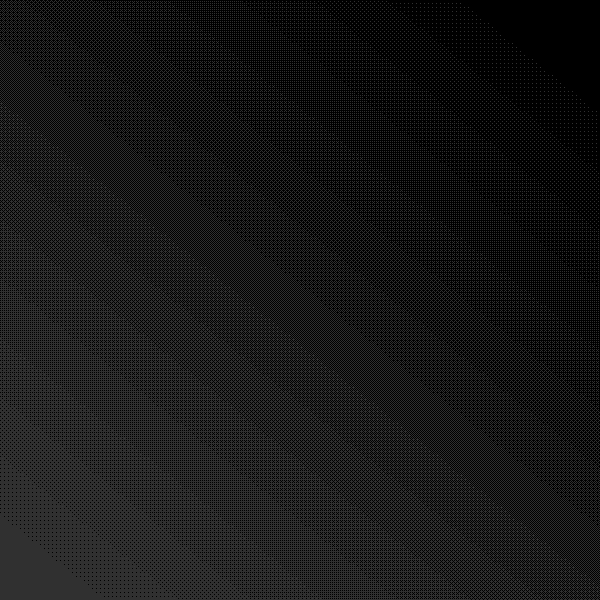
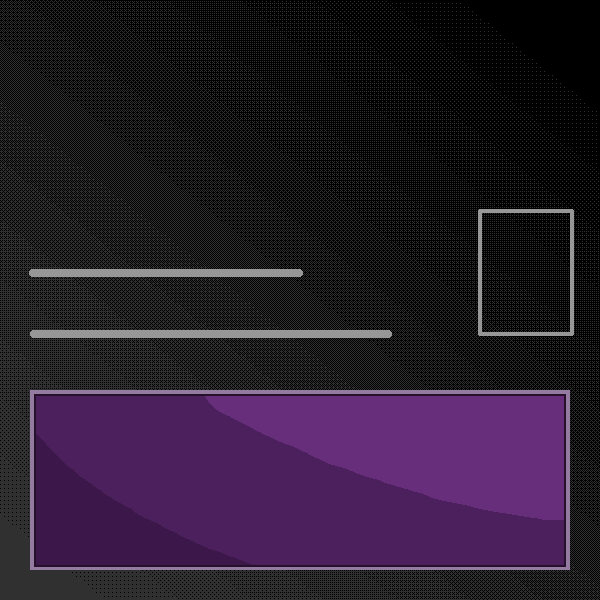
update-game

diff --git a/GameProJect/GameStructure.cpp b/GameProJect/GameStructure.cpp
@@ -56,6 +56,9 @@ void GameBase::init() {
 	test7->load(renderer);
 	test8->load(renderer);
 	gb->load(renderer);
+	spellbutton->load(renderer);
+	guessbutton->load(renderer);
+	sellectbutton->load(renderer);
 	load(tutor1, renderer, "TAB to change Button", "font.ttf", 12);
 	load(tutor2, renderer, "SPACE to select", "font.ttf", 12);
 	load(tutor3, renderer, "ESCAPE to back to Menu", "font.ttf", 12);
@@ -72,31 +75,34 @@ void GameBase::init() {
 		}
 	});*/
 
+	gmo.setTick([=]() {
+
+		if (manager.health <= 0) {
+			changeScene(ENDGAME);
+		}
+
+	});
+
 	gmo.setRender([=](SDL_Renderer* renderer) {
 		if (ao2.getVar("input") != 0) {
-			load(selectedchar, renderer, std::string(1, (char)ao2.getVar("input")), "font.ttf", 24);
-			SDL_Rect pos; pos.x = 600 - 50; pos.y = 600 - 300 + 50; pos.w = selectedchar.w; pos.h = selectedchar.h;
+			load(selectedchar, renderer, std::string(1, (char)ao2.getVar("input")), "font.ttf", 120);
+			SDL_Rect pos; pos.x = 480 + 5; pos.y = 210 - 15; pos.w = selectedchar.w; pos.h = selectedchar.h;
 			SDL_RenderCopy(renderer, selectedchar.texture, NULL, &pos);
 			deload(selectedchar);
 		}
-		load(placeholder, renderer, manager.getDisplay_Word(), "font.ttf", 24);
-		SDL_Rect pos; pos.x = 50; pos.y = 300; pos.w = placeholder.w; pos.h = placeholder.h;
+		load(placeholder, renderer, manager.getDisplay_Word() + "  :  " + manager.getWord_Meaning(), "font.ttf", 24);
+		SDL_Rect pos; pos.x = 40; pos.y = 300; pos.w = placeholder.w; pos.h = placeholder.h;
 		SDL_RenderCopy(renderer, placeholder.texture, NULL, &pos);
 		deload(placeholder);
 
-		load(placeholder, renderer, manager.getWord(), "font.ttf", 24);
-		pos; pos.x = 50; pos.y = 350; pos.w = placeholder.w; pos.h = placeholder.h;
-		SDL_RenderCopy(renderer, placeholder.texture, NULL, &pos);
-		deload(placeholder);
-
-		load(placeholder, renderer, manager.getWord_Meaning(), "font.ttf", 24);
-		pos; pos.x = 50; pos.y = 400; pos.w = placeholder.w; pos.h = placeholder.h;
+		load(placeholder, renderer, manager.getGuessedWord(), "font.ttf", 24);
+		pos; pos.x = 40; pos.y = 240; pos.w = placeholder.w; pos.h = placeholder.h;
 		SDL_RenderCopy(renderer, placeholder.texture, NULL, &pos);
 		deload(placeholder);
 
 	});
 
-	gmo.setEvent([=](SDL_Event* Event) {
+	/*gmo.setEvent([=](SDL_Event* Event) {
 		if (Event->type = SDL_KEYDOWN && Event->key.state == SDL_RELEASED) {
 			switch (Event->key.keysym.sym)
 			{
@@ -115,7 +121,39 @@ void GameBase::init() {
 				break;
 			}
 		}
-	});
+	});*/
+
+	spello.setTexture(spellbutton);
+	spello.setPos(60, 420);
+	spello.setSize(1, 1);
+
+	guesso.setTexture(guessbutton);
+	guesso.setPos(60 + 120 + 60, 420);
+	guesso.setSize(1, 1);
+
+	sellecto.setTexture(sellectbutton);
+	sellecto.setPos(60 + 120 + 60 + 120 + 60, 420);
+	sellecto.setSize(1, 1);
+
+	ingamebuttonlist.addButton(&spello, [=]() {
+
+		return;
+		}, 0);
+
+	ingamebuttonlist.addButton(&guesso, [=]() {
+		if (!manager.guessChar(ao2.getVar("input"))) {
+			manager.addHealth(-10);
+		}
+		else {
+			manager.addHealth(10);
+		}
+		return;
+	}, 1);
+
+	ingamebuttonlist.addButton(&sellecto, [=]() {
+		(ao2.getVar("checkinput") == 1) ? ao2.setVar("checkinput", 0) : ao2.setVar("checkinput", 1);
+		return;
+	}, 2);
 
 	tob1.setTexture(&tutor1);
 	tob1.setSize(1, 1);
@@ -150,11 +188,11 @@ void GameBase::init() {
 		if (Event->type == SDL_KEYDOWN && Event->key.keysym.sym == SDLK_ESCAPE) {
 			changeScene(MENU);
 		}
-		if (Event->type == SDL_KEYDOWN && Event->key.keysym.sym == SDLK_SPACE) {
+		/*if (Event->type == SDL_KEYDOWN && Event->key.keysym.sym == SDLK_SPACE) {
 			(ao2.getVar("checkinput") == 1) ? ao2.setVar("checkinput", 0) : ao2.setVar("checkinput", 1);
 			std::cout << ao2.getVar("checkinput") << std::endl;
 			
-		}
+		}*/
 		return;
 		});
 
@@ -174,7 +212,7 @@ void GameBase::init() {
 	mto.addTex(test); mto.addTex(test2); mto.addTex(test3); mto.addTex(test4); mto.addTex(test5); mto.addTex(test6); mto.addTex(test7); mto.addTex(test8);
 	mto.setCurTexture();
 	mto.setSize(2.5, 2.5);
-	mto.setPos(45 / 2.5, 45 / 2.5);
+	mto.setPos(45 / 2.5, 45 / 2.5 - 15);
 
 	baro.setRender([=](SDL_Renderer* renderer) {
 		SDL_Rect outline; outline.y = 100; outline.h = 30; outline.w = 280; outline.x = 600 - 30 - 300;
@@ -253,6 +291,7 @@ void GameBase::init() {
 	s2.push_back((GameObject*)&tob3);
 	s2.push_back((GameObject*)&baro);
 	s2.push_back((GameObject*)&gmo);
+	s2.push_back((GameObject*)&ingamebuttonlist);
 	
 
 	addScene("scene1", s1);

diff --git a/GameProJect/GameManager.h b/GameProJect/GameManager.h
@@ -4,13 +4,35 @@
 #include <vector>
 #include <fstream>
 #include <algorithm>
+
+struct PlayerData {
+	int score;
+	float time;
+
+	PlayerData(int score_ = 0, float time_ = 0) {
+		score = score_;
+		time = time_;
+	}
+
+	std::string toString() {
+		std::string s;
+		s = std::to_string(score) + ": " + std::to_string(time);
+		return s;
+	}
+};
+
 class GameManager
 {
 public:
+	float time_start, time_end;
+
+
 	int health;
 	int mana;
 
 protected:
+
+	PlayerData data = PlayerData();
 
 	std::string word;
 	std::string displace_word;
@@ -18,6 +40,8 @@ protected:
 
 	std::vector<std::string> wordlist;
 	std::vector<std::string> wordmeaninglist;
+
+	std::vector<std::string> scorelist;
 	
 	std::vector<char> guessedchar;
 
@@ -58,10 +82,16 @@ public:
 
 		wordinput.close();
 
+		int length = wordlist.size();
+
 		wordinput.open("WordMeaning.txt", std::ifstream::in);
 
-		while (wordinput >> temp) {
+		int i = 0;
+
+		while (i < length) {
+			std::getline(wordinput, temp);
 			wordmeaninglist.push_back(temp);
+			i++;
 		}
 
 		wordinput.close();
@@ -92,7 +122,7 @@ public:
 
 	bool guessChar(char c) {
 		if (std::find(guessedchar.begin(), guessedchar.end(), c) != guessedchar.end()) {
-			std::cout << "find" << std::endl;
+			guessedchar.push_back(c);
 			return false;
 		}
 		bool a = false;
@@ -104,6 +134,44 @@ public:
 		}
 		guessedchar.push_back(c);
 		return a;
+	}
+
+	void loadScore() {
+
+	}
+
+	std::string getGuessedWord() {
+		if (guessedchar.empty()) return  "GUESSED:";
+		std::string temp = "";
+		/*for (auto i = guessedchar.end(); i != guessedchar.end() - 6; i--) {
+			temp = temp + std::string(1, *i) + " ";
+		}*/
+		/*auto iter = guessedchar.end() - 1;
+		int i = 0;
+		int length = (guessedchar.size() < 6) ? guessedchar.size() : 6;
+		while (i < length) {
+			temp = temp + *iter + " ";
+			i++;
+			iter--;
+		}*/
+		if (guessedchar.size() <= 3) {
+			for (char i : guessedchar) {
+				temp = temp + std::string(1, i) + " ";
+			}
+		}
+		else {
+			auto iter = guessedchar.end() - 1;
+			int i = 0;
+			
+			while (i < 3) {
+				temp = temp + *iter + " ";
+				i++;
+				iter--;
+			}
+		}
+		
+		temp = "GUESSED: " + temp;
+		return temp;
 	}
 
 };

diff --git a/GameProJect/GameStructure.h b/GameProJect/GameStructure.h
@@ -19,15 +19,15 @@ public:
 
 	const std::string MENU = "scene1";
 	const std::string GAME = "scene2";
-	const std::string IGMENU = "scene3";
+	const std::string ENDGAME = "scene3";
 
 	std::vector<GameObject*> s1, s2, s3;
 
-	TexOb mo = TexOb(), mbo = TexOb(), pbo = TexOb(), gbo = TexOb(), tob1 = TexOb(), tob2 = TexOb(), tob3 = TexOb();
+	TexOb mo = TexOb(), mbo = TexOb(), pbo = TexOb(), gbo = TexOb(), tob1 = TexOb(), tob2 = TexOb(), tob3 = TexOb(), spello = TexOb(), guesso = TexOb(), sellecto = TexOb();
 	
 	MultiTexOb mto = MultiTexOb();
 	
-	ButtonList mbl = ButtonList();
+	ButtonList mbl = ButtonList(), ingamebuttonlist = ButtonList();
 	
 	AbOb ao = AbOb(), baro = AbOb(), gmo = AbOb();
 	
@@ -46,6 +46,9 @@ public:
 	Texture* test6 = new Texture("PlayerHead6.png");
 	Texture* test7 = new Texture("PlayerHead7.png");
 	Texture* test8 = new Texture("PlayerHead8.png");
+	Texture* spellbutton = new Texture("spell.png");
+	Texture* guessbutton = new Texture("guess.png");
+	Texture* sellectbutton = new Texture("sellectchar.png");
 
 	Text tutor1, tutor2, tutor3, h_m_display;
 
